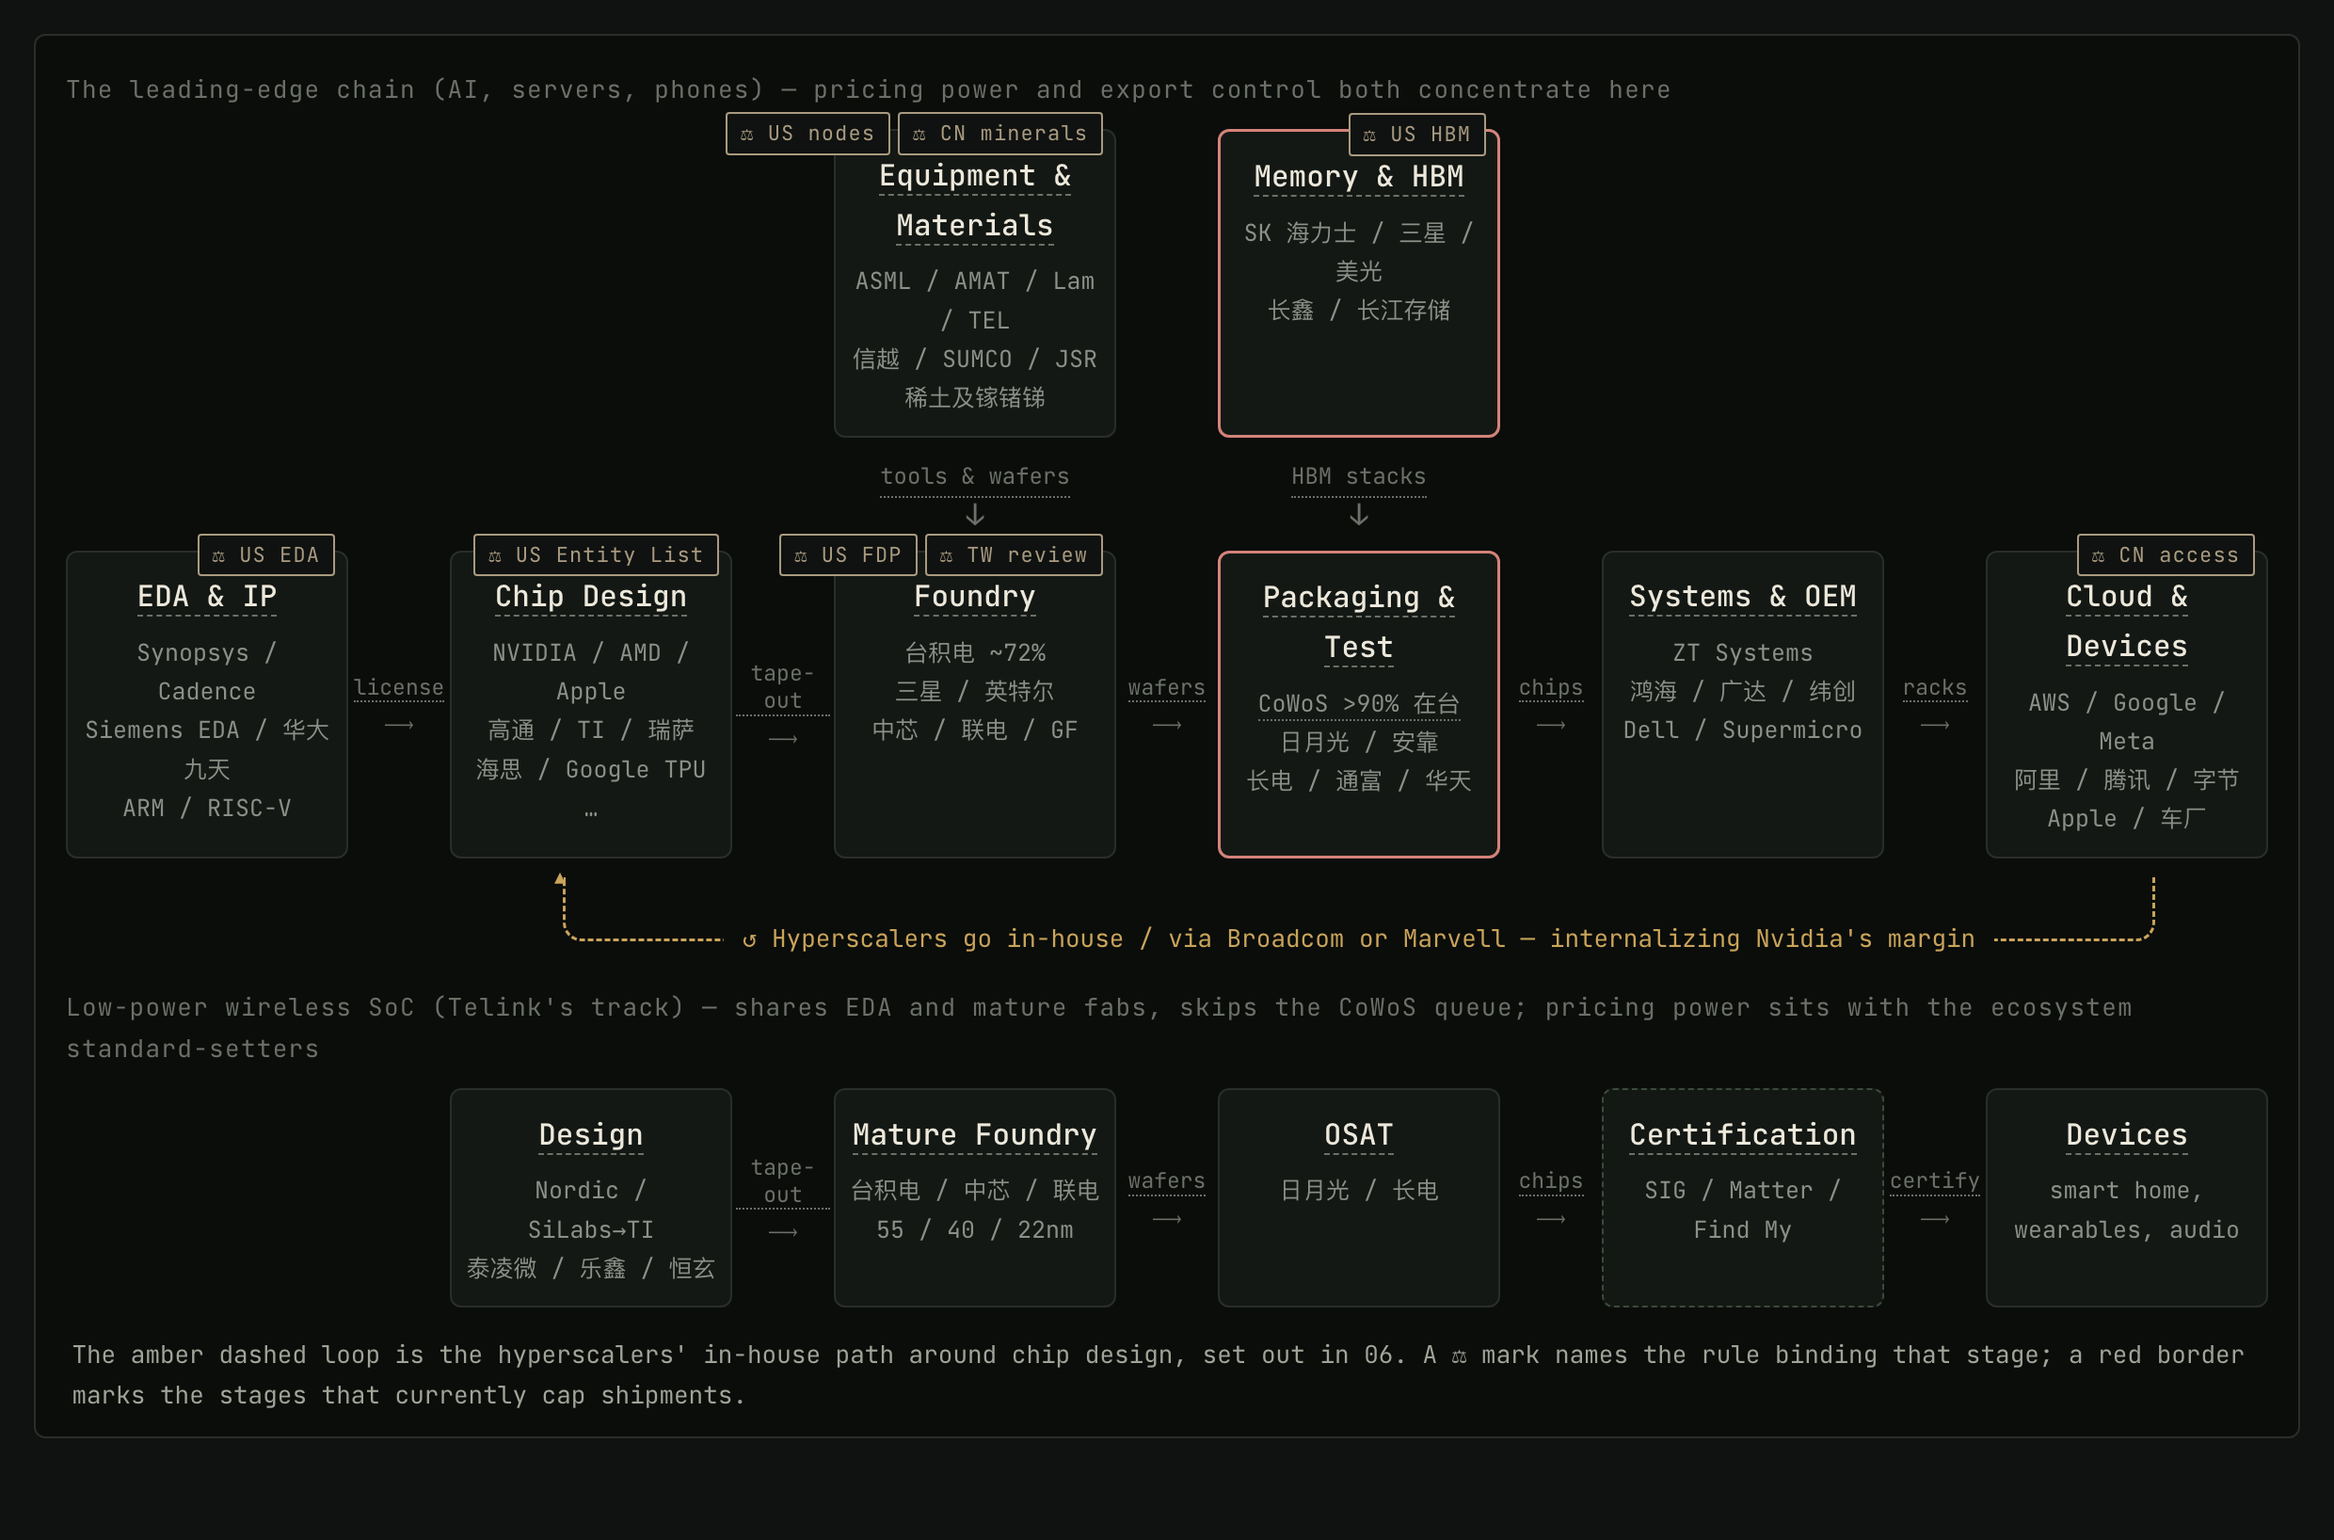
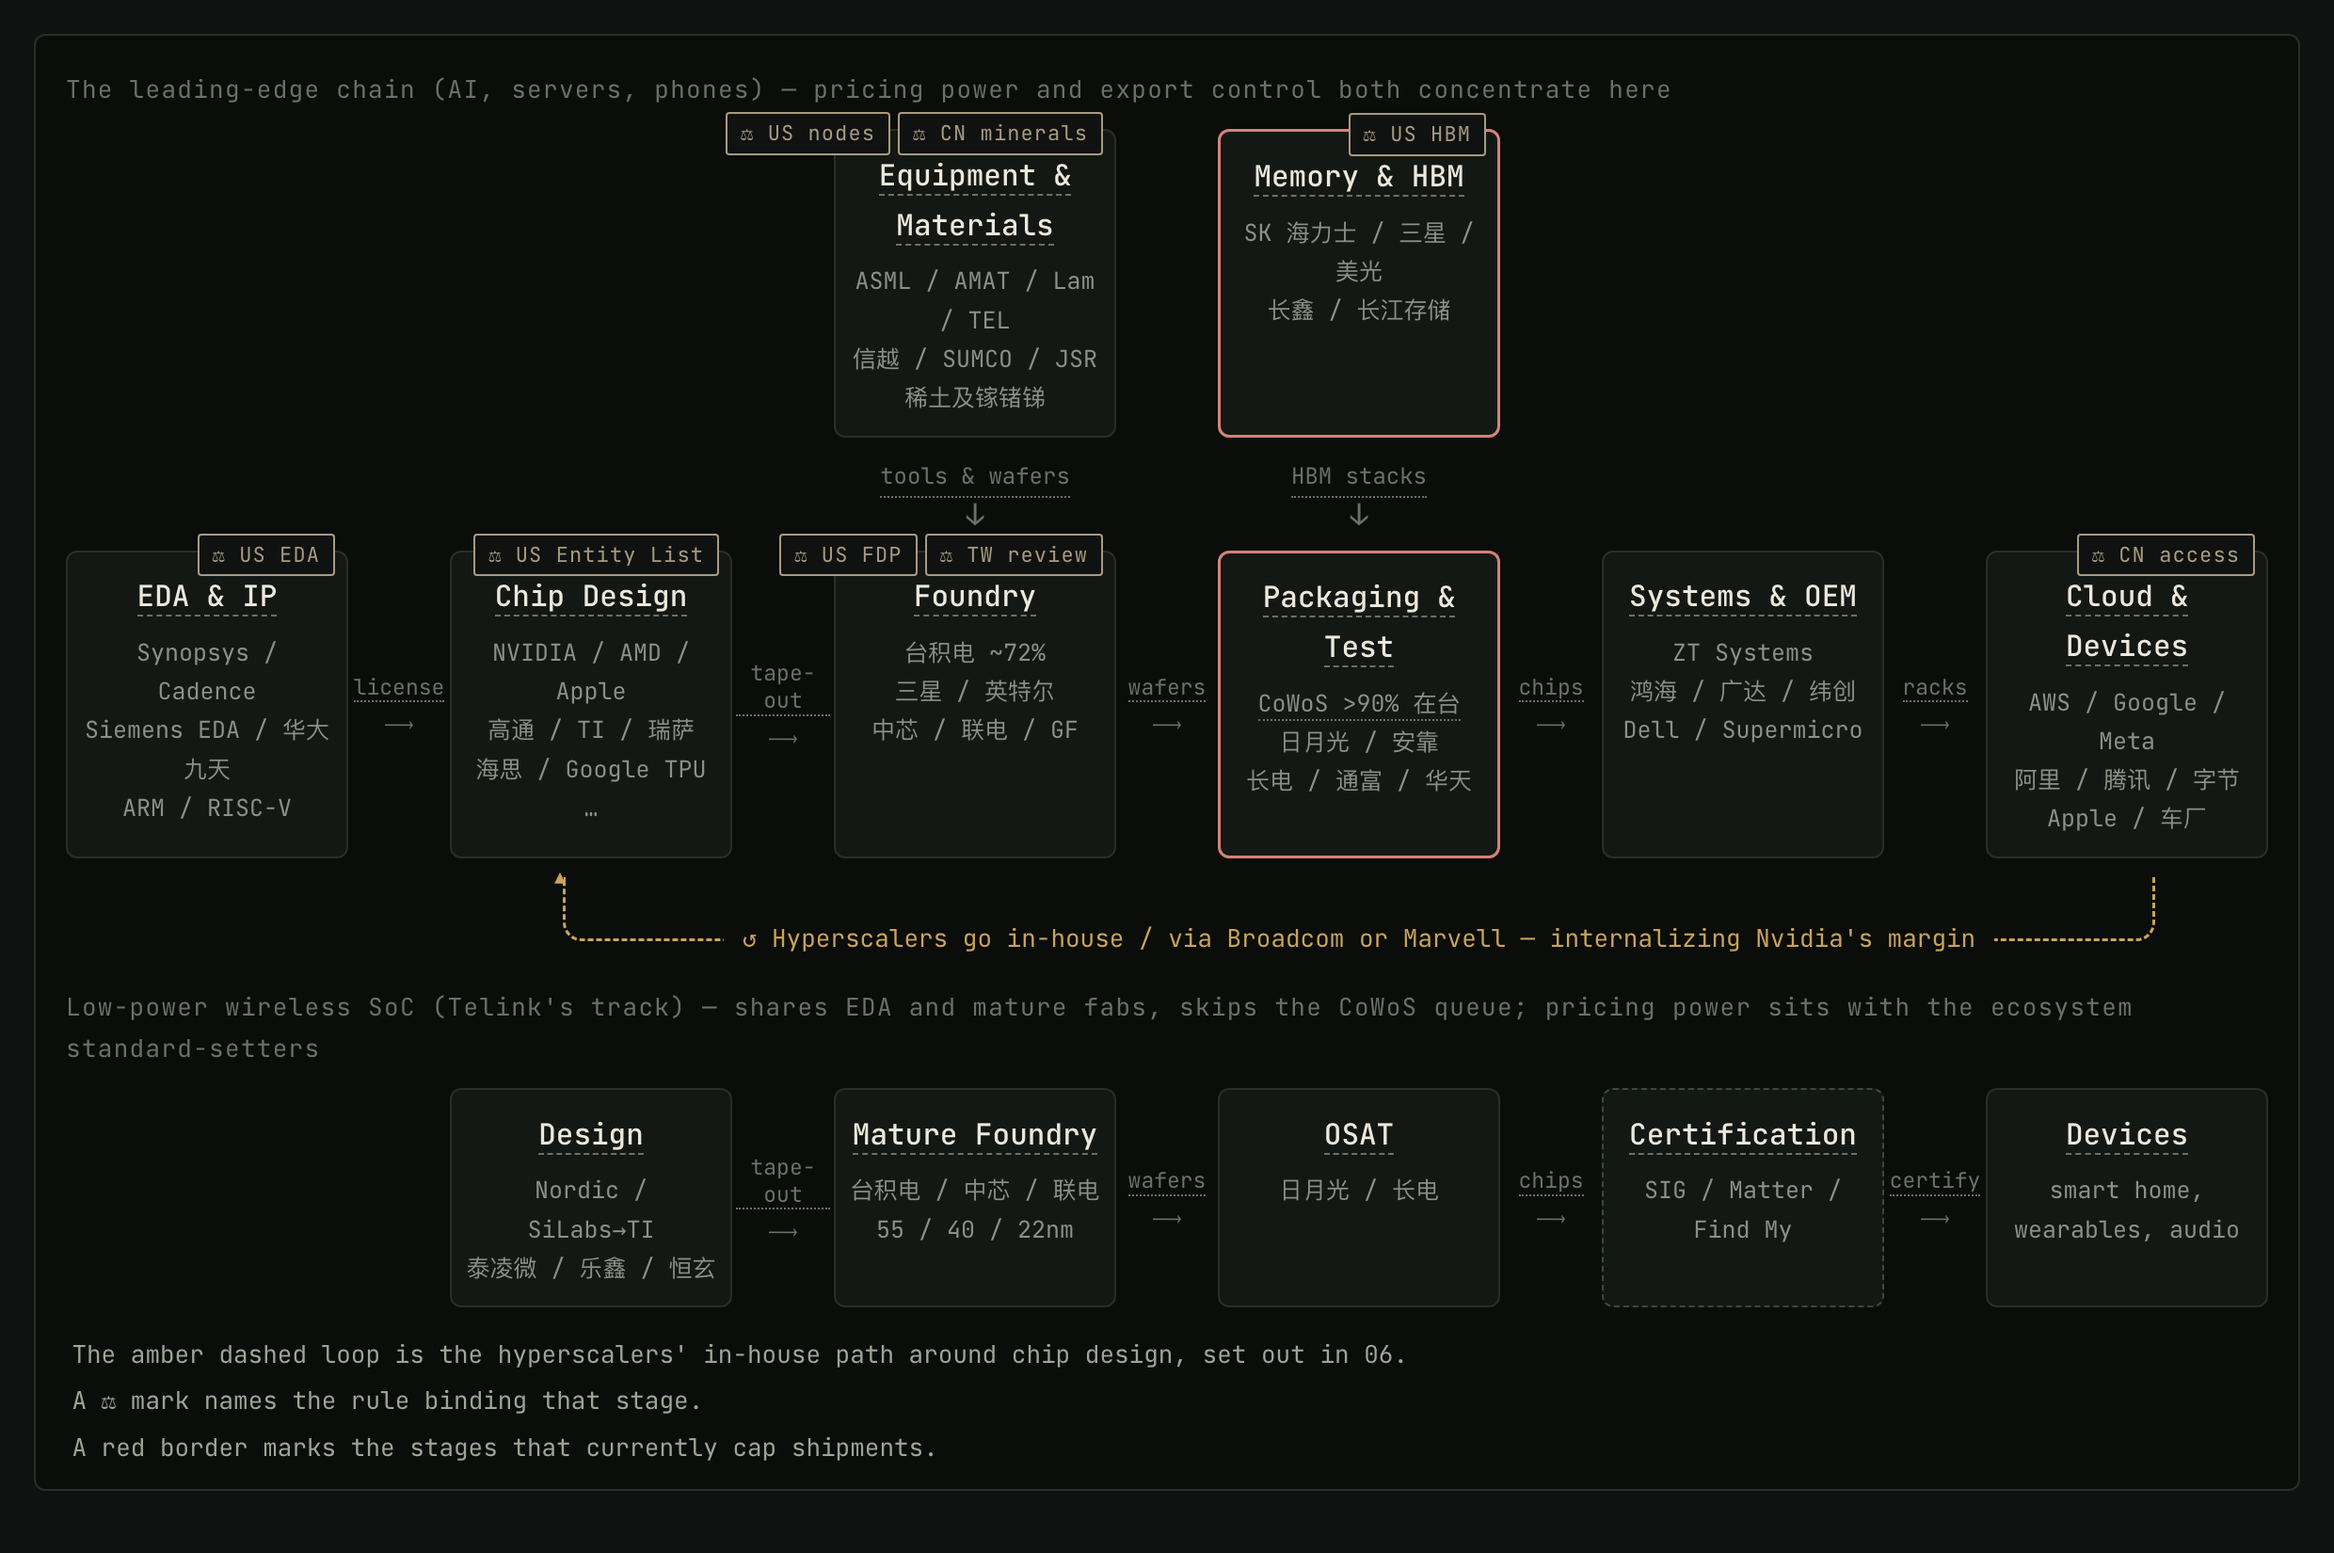
semis: one line per mark in the caption
Three independent definitions read as a legend, not a paragraph. Each
gets its own line; the semicolon becomes a full stop.

diff --git a/quartz/static/semis/value-chain-map.html b/quartz/static/semis/value-chain-map.html
@@ -287,6 +287,8 @@ h1.article-title{font-size:26px}
 .fig .tipR .tg-tip-box::after{left:auto;right:18px;margin-left:0}
 .fig figcaption{font-size:13px;color:var(--color-text-dim);margin:.9rem .2rem 0;
   line-height:1.65}
+.fig figcaption .capline{display:block}
+.fig figcaption .capline+.capline{margin-top:.2rem}
 #mapwrap:has(#r-us:checked) .fig .sr:not(.sr-us),
 #mapwrap:has(#r-tw:checked) .fig .sr:not(.sr-tw),
 #mapwrap:has(#r-cn:checked) .fig .sr:not(.sr-cn),
@@ -366,7 +368,7 @@ h1.article-title{font-size:26px}
 <div class="fcon" style="grid-row:7;grid-column:8"><span class="tg-tip " tabindex="0"><span class="tg-lang zh">芯片</span><span class="tg-lang en">chips</span><span class="tg-tip-box"><span class="tg-lang zh">封好、测完、挑掉坏品之后的成品芯片。</span><span class="tg-lang en">Finished chips: packaged, tested, bad parts culled.</span></span></span><span class="ar">⟶</span></div>
 <div class="fbox dashed" style="grid-row:7;grid-column:9"><span class="ft"><span class="tg-tip " tabindex="0"><span class="tg-lang zh">认证与生态</span><span class="tg-lang en">Certification</span><span class="tg-tip-box"><span class="tg-lang zh"><b>认证与生态</b>。芯片厂控制不了的一道门：Bluetooth SIG、Matter、Find My、各国无线电核准决定「什么算能用的设备」。<b>这道门是这条赛道定价权不在芯片厂手上的原因。</b></span><span class="tg-lang en"><b>Certification & ecosystems</b> — a gate the chip vendor does not control: Bluetooth SIG, Matter, Find My and radio approvals decide what counts as a working device. <b>This gate is why pricing power on this branch does not sit with chip makers.</b></span></span></span></span><span class="fp"><span class="sr sr-gl">SIG / Matter / Find My</span></span></div>
 <div class="fcon" style="grid-row:7;grid-column:10"><span class="tg-tip " tabindex="0"><span class="tg-lang zh">进生态</span><span class="tg-lang en">certify</span><span class="tg-tip-box"><span class="tg-lang zh">过了认证才能进 Apple / Google / Amazon 的生态。进不去，芯片再好也卖不动。</span><span class="tg-lang en">Certification is the ticket into the Apple / Google / Amazon ecosystems. Without it, a better chip still does not sell.</span></span></span><span class="ar">⟶</span></div>
-<div class="fbox" style="grid-row:7;grid-column:11"><span class="ft"><span class="tg-tip tipR " tabindex="0"><span class="tg-lang zh">终端</span><span class="tg-lang en">Devices</span><span class="tg-tip-box"><span class="tg-lang zh"><b>终端</b>。智能家居、穿戴、音频。一颗芯片几毛到几美元，一辆车、一间屋子里有几十上百颗。</span><span class="tg-lang en"><b>End devices</b> — smart home, wearables, audio. Cents to dollars per chip; dozens to hundreds per car or household.</span></span></span></span><span class="fp"><span class="tg-lang zh">智能家居、穿戴、音频</span><span class="tg-lang en">smart home, wearables, audio</span></span></div></div><figcaption><span class="tg-lang zh">琥珀色虚线为云厂商绕过芯片设计的自研回路，详见 06。⚖ 标注约束该环节的具体规则；红框标注当前真正限制出货的环节。</span><span class="tg-lang en">The amber dashed loop is the hyperscalers' in-house path around chip design, set out in 06. A ⚖ mark names the rule binding that stage; a red border marks the stages that currently cap shipments.</span></figcaption></figure>
+<div class="fbox" style="grid-row:7;grid-column:11"><span class="ft"><span class="tg-tip tipR " tabindex="0"><span class="tg-lang zh">终端</span><span class="tg-lang en">Devices</span><span class="tg-tip-box"><span class="tg-lang zh"><b>终端</b>。智能家居、穿戴、音频。一颗芯片几毛到几美元，一辆车、一间屋子里有几十上百颗。</span><span class="tg-lang en"><b>End devices</b> — smart home, wearables, audio. Cents to dollars per chip; dozens to hundreds per car or household.</span></span></span></span><span class="fp"><span class="tg-lang zh">智能家居、穿戴、音频</span><span class="tg-lang en">smart home, wearables, audio</span></span></div></div><figcaption><span class="capline"><span class="tg-lang zh">琥珀色虚线为云厂商绕过芯片设计的自研回路，详见 06。</span><span class="tg-lang en">The amber dashed loop is the hyperscalers' in-house path around chip design, set out in 06.</span></span><span class="capline"><span class="tg-lang zh">⚖ 标注约束该环节的具体规则。</span><span class="tg-lang en">A ⚖ mark names the rule binding that stage.</span></span><span class="capline"><span class="tg-lang zh">红框标注当前真正限制出货的环节。</span><span class="tg-lang en">A red border marks the stages that currently cap shipments.</span></span></figcaption></figure>
 <p class="govhead"><span class="tg-lang zh">三套管辖权——悬停看规则细节</span><span class="tg-lang en">Three jurisdictions — hover for the rules</span></p>
 <div class="govwrap"><div class="govcard g-us tg-tip" tabindex="0"><b>美国管辖 / US jurisdiction</b><em><span class="tg-lang zh">EDA / 设备 / 先进逻辑 / HBM</span><span class="tg-lang en">EDA / tools / leading-edge logic / HBM</span></em><span class="tg-tip-box"><span class="tg-lang zh"><b>FDP 规则 + 实体清单 + BIS 许可</b>。只要一件外国制造的产品是用美国技术「直接生产」的，美国就主张管辖权——不论它在哪造。这才是台积电受美国法律约束的原因。2022 年 10 月 7 日的规则设定了 16/14nm 逻辑、18nm DRAM、128 层 NAND 的门槛；2024 年 12 月又把 FDP 扩展到设备本身。</span><span class="tg-lang en"><b>FDP rule + Entity List + BIS licensing.</b> If a foreign-made item is the direct product of US technology, Washington claims jurisdiction — wherever it was made. That, not its customer list, is why TSMC is bound by US law. The 7 Oct 2022 rule set thresholds at 16/14nm logic, 18nm DRAM, 128-layer NAND; Dec 2024 extended FDP to equipment itself.</span></span></div><div class="govcard g-cn tg-tip" tabindex="0"><b>中国管辖 / China jurisdiction</b><em><span class="tg-lang zh">稀土 / 镓锗锑 / 最终用途</span><span class="tg-lang en">rare earths / Ga-Ge-Sb / end-use</span></em><span class="tg-tip-box"><span class="tg-lang zh"><b>0.1% 微量规则 + 两用物项管制</b>。2025 年 10 月 9 日商务部第 61/62 号公告：外国制造的商品只要含 0.1% 以上中国原产稀土，出口就需中国许可。<b>结构上与美国 FDP 规则同构。</b>釜山会晤后暂停至 2026 年 11 月 10 日。</span><span class="tg-lang en"><b>The 0.1% de minimis rule + dual-use controls.</b> MOFCOM Notices 61/62 of 9 Oct 2025: any foreign-made good with ≥0.1% Chinese-origin rare-earth content needs a Chinese export licence. <b>Structurally isomorphic to the US FDP rule.</b> Suspended after Busan until 10 Nov 2026.</span></span></div><div class="govcard g-tw tg-tip" tabindex="0"><b>台湾管辖 / Taiwan jurisdiction</b><em><span class="tg-lang zh">代工出海 / 制程外移</span><span class="tg-lang en">overseas fabs / node migration</span></em><span class="tg-tip-box"><span class="tg-lang zh"><b>N-1 原则 + 产创条例第 22 条</b>。海外制程至少落后本土一代。<b>从来不是成文禁令，而是通过投资审查行使的裁量性规范</b>，2025 年 1 月 11 日被经济部长公开松绑，此后持续放宽。</span><span class="tg-lang en"><b>The N-1 rule + Article 22 review.</b> Overseas nodes must trail home by a generation. <b>Never a codified ban — a discretionary norm applied through investment review</b>, publicly relaxed by the economics minister on 11 Jan 2025 and loosened since.</span></span></div></div>
 <div class="filterbar"><span class="ctrl-lab"><span class="tg-lang zh">地区筛选</span><span class="tg-lang en">Region filter</span></span><div class="legend"><label class="b-all" for="r-all"><span class="tg-lang zh">全部</span><span class="tg-lang en">All</span></label><label class="b-us" for="r-us"><span class="tg-lang zh">美国</span><span class="tg-lang en">US</span></label><label class="b-tw" for="r-tw"><span class="tg-lang zh">台湾</span><span class="tg-lang en">Taiwan</span></label><label class="b-cn" for="r-cn"><span class="tg-lang zh">中国大陆</span><span class="tg-lang en">China</span></label><label class="b-kr" for="r-kr"><span class="tg-lang zh">韩国</span><span class="tg-lang en">Korea</span></label><label class="b-jp" for="r-jp"><span class="tg-lang zh">日本</span><span class="tg-lang en">Japan</span></label><label class="b-eu" for="r-eu"><span class="tg-lang zh">欧洲</span><span class="tg-lang en">Europe</span></label></div></div>
